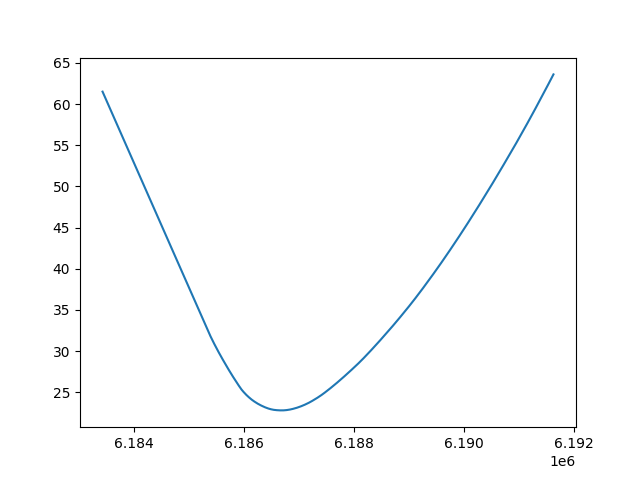
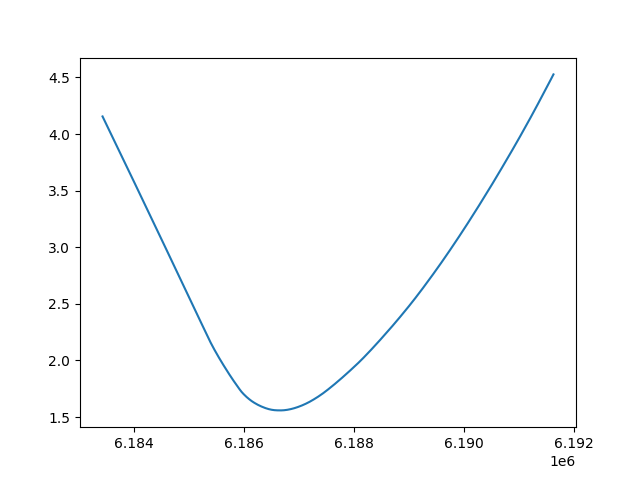
refactored bithacks

diff --git a/ctrl/evil_bithack_3.py b/ctrl/evil_bithack_3.py
@@ -41,18 +41,19 @@ errors = []
 consts = []
 minerror = float("inf")
 minconst = 0
+print(f"{(126*2**16):06x}")
 
 for diff in tqdm(range(-delta, delta)):
     num_samples = 1000
     random.seed("wtf")
-    const = 0x1f8000 + diff
+    const = 0x7ddc00 + diff
     total_error = 0
     for i in range(num_samples):
-        x = 2 ** (random.random() * 127 - 63)
+        x = 2 ** (random.random() * 120 - 60)
         as_bin = make_fp24(x)
-        evil = const + (as_bin >> 1)
+        evil = const - as_bin
         res = convert_fp24(evil)
-        correct = math.sqrt(x)
+        correct = 1 / x
         # print(f"{res=} {correct=}")
         error = abs((correct - res) / correct) * 100
         total_error += error
@@ -67,4 +68,4 @@ for diff in tqdm(range(-delta, delta)):
 plt.plot(consts, errors)
 # print(consts, errors)
 print(f"{minconst=:x}")
-plt.savefig("ctrl/evil_graph_2.png")
+plt.savefig("ctrl/evil_graph_3.png")

diff --git a/ctrl/evil_bithack_1.py b/ctrl/evil_bithack_1.py
@@ -53,12 +53,13 @@ for diff in tqdm(range(-delta, delta)):
         res = convert_fp24(evil)
         correct = 1 / math.sqrt(x)
         # print(f"{res=} {correct=}")
-        error = abs(math.log2(correct) - math.log2(res))
+        error = abs((correct - res) / correct) * 100
         total_error += error
-    if (total_error < minerror):
+    avg_error = total_error / num_samples
+    if (avg_error < minerror):
         minconst = const
-        minerror = error
-    errors.append(total_error)
+        minerror = avg_error
+    errors.append(avg_error)
     consts.append(const)
 
 plt.plot(consts, errors)
